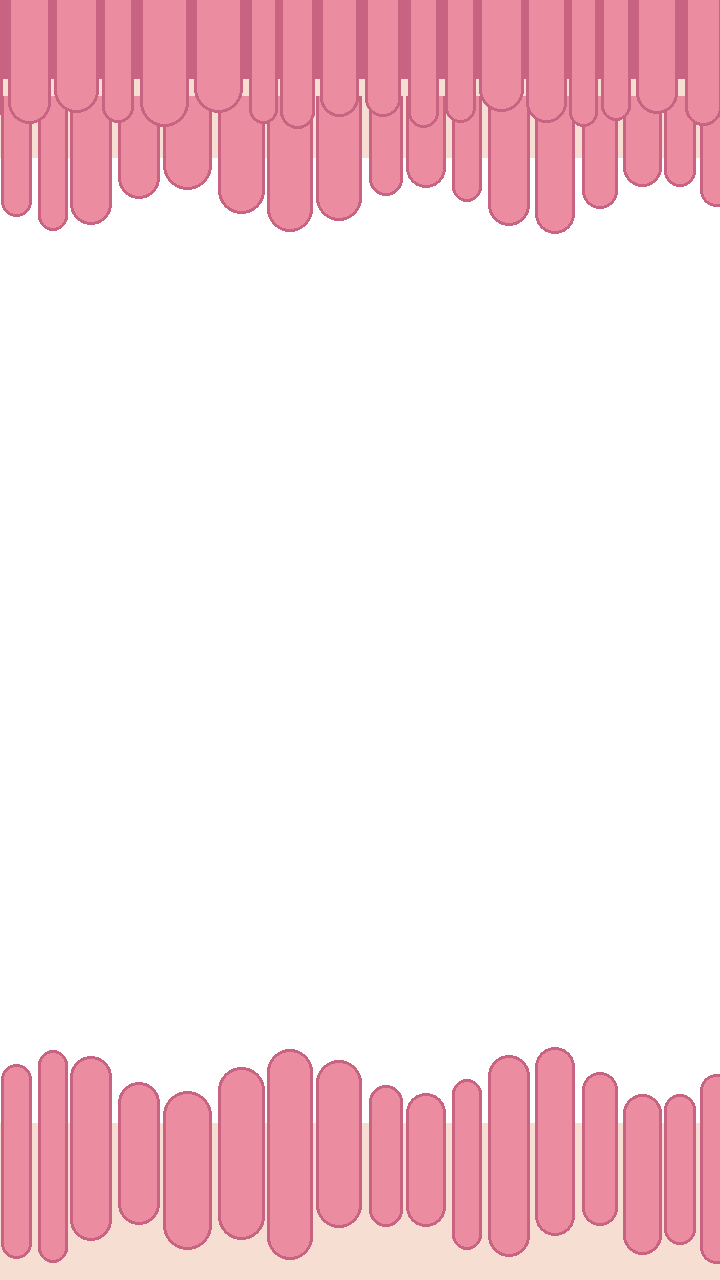
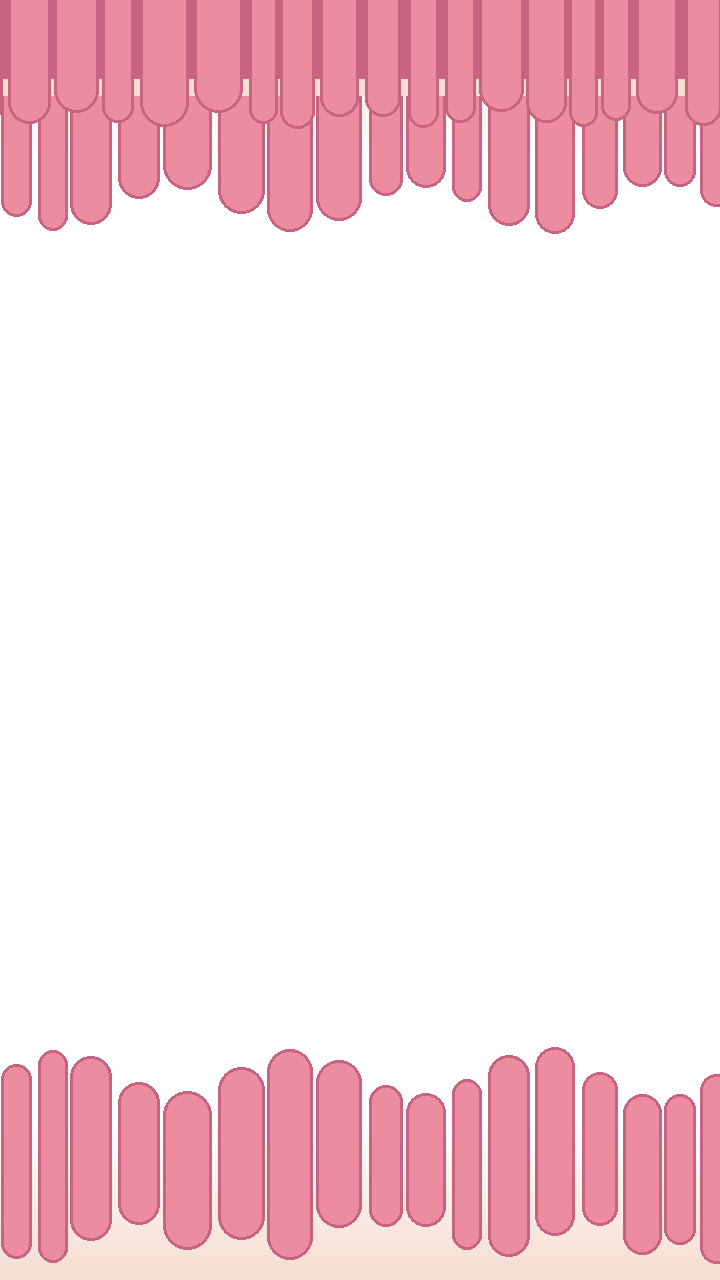
tune(art): the cream backdrop fades to transparent toward the lumen
backdrop() draws the mucosa rows with alpha falling linearly to 0 over
BACKDROP_FADE (95 %) of the backdrop's depth from its lumen edge, so there is
no hard cream cut-off; the strips' cream lines stay solid. VERSION 0.5.14.

diff --git a/src/logic.js b/src/logic.js
@@ -4,7 +4,7 @@
 
 import { isLocale, DEFAULT_LOCALE } from './i18n.js';
 
-export const VERSION = '0.5.13'; // bumped when art under an existing name changes (Boot's ?v= cache-bust)
+export const VERSION = '0.5.14'; // bumped when art under an existing name changes (Boot's ?v= cache-bust)
 
 /** Player-facing stamp on the About overlay: the time of the last push (written by `npm run push`). */
 export const LAST_UPDATED = '6 Nov 2026, 16:07';

diff --git a/tools/make_placeholders.py b/tools/make_placeholders.py
@@ -97,6 +97,20 @@ FRONT_WAVE = (8, 5, math.pi / 2)  # shallow undulation of the strips' finger tip
 BACK_WAVE = (24, 3, 0.0)  # deeper undulation of the fringes' tips (±24 px, 3 waves per tile)
 TIP_ZONE = 16  # px of the strips' lumen-side edge left for the undulating tips (2 × the front amplitude)
 BAR_FRAC = 0.85  # the cream bars end at this share of the shortest tip's reach from the screen edge, so every tip extends past them
+BACKDROP_FADE = 0.95  # share of the cream backdrop's depth (from its lumen edge inward) over which it fades to transparent; the rest, at the screen edge, is solid
+
+
+def backdrop(d, w, y0, y1, toward_lumen):
+    """The cream mucosa backdrop between rows y0..y1, fading linearly to transparent over
+    BACKDROP_FADE of its depth so its lumen-side edge is not a hard cut. toward_lumen is +1
+    when the lumen is below (the top backdrop), −1 when it is above (the bottom one). Drawn
+    first onto the transparent canvas, so the rows' alphas are written as is."""
+    depth = y1 - y0
+    fade = depth * BACKDROP_FADE
+    for y in range(y0, y1):
+        d_lumen = (y1 - y) if toward_lumen > 0 else (y - y0 + 1)  # rows from the lumen edge, 1-based
+        a = 255 if d_lumen > fade else int(round(255 * d_lumen / fade))
+        d.line((0, y, w, y), fill=CREAM[:3] + (a,))
 
 
 def ceiling_strip(d, w, strip_h=128, cream_h=16):
@@ -115,7 +129,8 @@ def ceiling_strip(d, w, strip_h=128, cream_h=16):
 
 def villi(path, w=720, h=1280):
     """Transparent overlay: a cream mucosa backdrop from each screen edge to BAR_FRAC of the
-    shortest fringe tip (behind everything: the strips and the fringes draw over it), the
+    shortest fringe tip, fading to transparent toward the lumen (BACKDROP_FADE; behind
+    everything: the strips and the fringes draw over it), the
     villi fringes, and the ceiling strip (the ground's mirror) along the top edge. The level
     colour shows through from the backdrop's edge to the lumen (the game draws a solid
     rectangle under the overlay)."""
@@ -131,8 +146,8 @@ def villi(path, w=720, h=1280):
     amp = BACK_WAVE[0]
     top_bar = round(BAR_FRAC * (top_base + 20 - amp))
     bot_bar = h - round(BAR_FRAC * (h - (bot_base - 20 + amp)))
-    d.rectangle((0, 0, w, top_bar), fill=CREAM)
-    d.rectangle((0, bot_bar, w, h), fill=CREAM)
+    backdrop(d, w, 0, top_bar, +1)
+    backdrop(d, w, bot_bar, h, -1)
     # villi fringes (drawn wider than the image so the horizontal tile edge matches); every finger
     # is ≥ 131 px so its rounded far end sits behind the ceiling strip / the ground strip, and the
     # tips undulate ±24 px around the backdrop's edge (BACK_WAVE).

diff --git a/assets/README.md b/assets/README.md
@@ -46,7 +46,7 @@ Audio files live in `assets/sfx/`. Every file there must be named in `CREDITS.md
 
 The background is a **solid colour per level** (`LEVEL_COLORS` in `src/config.js`, cycling, softened by `levels.whiteBlend`, crossfaded between levels at the break) with one or more **transparent PNG overlay layers** on top. Each layer is a `tileSprite` listed in `BACKGROUND.layers` (`key`, `parallax`) and scrolls at its own fraction of the pipe speed (villi 0.25). Pipes, items, the poop and the ground draw above all layers; the ground strip (bottom 128 px) hides that part of every layer.
 
-- `villi.png`: 720×1280, PNG with alpha, exactly the portrait playfield (it is scaled to the screen height, never tiled vertically). On a wider desktop field the same 720 px copy repeats sideways (tile scale `FIELD.minWidth / width`), as does `ground.png`, so a seam at the wrap would show there first. Transparent wherever the level colour should show; opaque in a cream mucosa backdrop from each screen edge to `BAR_FRAC` (85 %) of the shortest fringe tip's reach (behind the strips and the fringes, so the level colour shows only from the backdrop's edge to the lumen and no tip lines up with the bar), where the villi are, and in the ceiling strip along the top edge (the ground's mirror, so both ends show a back fringe and a front row; its cream line ends at `BAR_FRAC` of the shortest front tip too; it is background, so the ceiling kill line and the gap margin are unchanged). Every finger's rounded far end is off the image edge (the strips' front rows) or behind a strip (the fringes), so the walls read as villi running off-screen, not teeth; `villi_band(min_frac)` enforces the minimum length. The lumen-side tips undulate along x on a sine with a whole number of periods per 720 px tile (`BACK_WAVE` ±24 px on the fringes, `FRONT_WAVE` ±8 px on the strips, inside their 16 px `TIP_ZONE`), plus a little per-finger jitter. Must tile horizontally: the right edge continues into the left (the placeholder draws 40 px past each side and wraps). A 2× version (1440×2560) is fine; keep each side ≤ 4096 px (phone WebGL limit); the scene scales by `GAME_WIDTH / frame.width`. Keep the fringes clear of the middle ~50 % of the height where the gaps sit (today each end's fringe reaches about 235 px in from the edge, with its far ends behind the strips).
+- `villi.png`: 720×1280, PNG with alpha, exactly the portrait playfield (it is scaled to the screen height, never tiled vertically). On a wider desktop field the same 720 px copy repeats sideways (tile scale `FIELD.minWidth / width`), as does `ground.png`, so a seam at the wrap would show there first. Transparent wherever the level colour should show; a cream mucosa backdrop from each screen edge to `BAR_FRAC` (85 %) of the shortest fringe tip's reach, solid at the edge and fading to transparent over `BACKDROP_FADE` (95 %) of its depth toward the lumen (behind the strips and the fringes, so the level colour shows only from the backdrop's edge to the lumen and no tip lines up with the bar), where the villi are, and in the ceiling strip along the top edge (the ground's mirror, so both ends show a back fringe and a front row; its cream line ends at `BAR_FRAC` of the shortest front tip too; it is background, so the ceiling kill line and the gap margin are unchanged). Every finger's rounded far end is off the image edge (the strips' front rows) or behind a strip (the fringes), so the walls read as villi running off-screen, not teeth; `villi_band(min_frac)` enforces the minimum length. The lumen-side tips undulate along x on a sine with a whole number of periods per 720 px tile (`BACK_WAVE` ±24 px on the fringes, `FRONT_WAVE` ±8 px on the strips, inside their 16 px `TIP_ZONE`), plus a little per-finger jitter. Must tile horizontally: the right edge continues into the left (the placeholder draws 40 px past each side and wraps). A 2× version (1440×2560) is fine; keep each side ≤ 4096 px (phone WebGL limit); the scene scales by `GAME_WIDTH / frame.width`. Keep the fringes clear of the middle ~50 % of the height where the gaps sit (today each end's fringe reaches about 235 px in from the edge, with its far ends behind the strips).
 - The same villi show over every level colour (Set2: tan, teal, periwinkle, lime, yellow, light blue). Keep villi away from those hues; `tests/levels.test.js` rejects a level colour that comes within reach of the villi pink or the cream bands, so a redrawn villi colour means re-checking that test's constants.
 - Adding a layer: a PNG with the same rules, a row in `BACKGROUND.layers`, a `load.image` in `src/scenes/Boot.js`, and a row in the table above. Nothing in `Play.js` changes.
 - The finish line is a generated texture (`src/ui/finish.js`). A drawn one later: `finish.png`, 64×1280, alpha, scrolls with the pipes.
